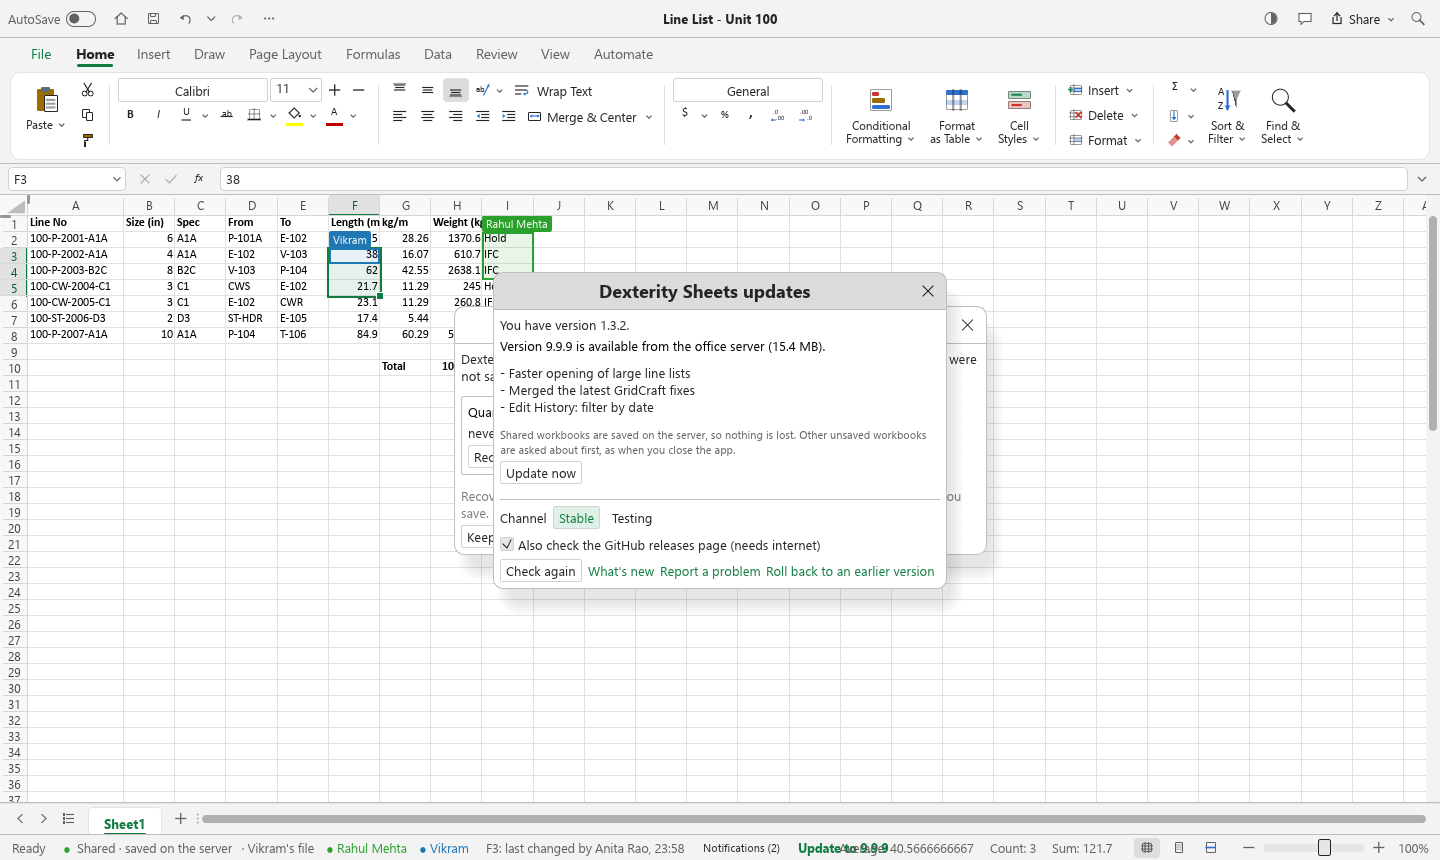
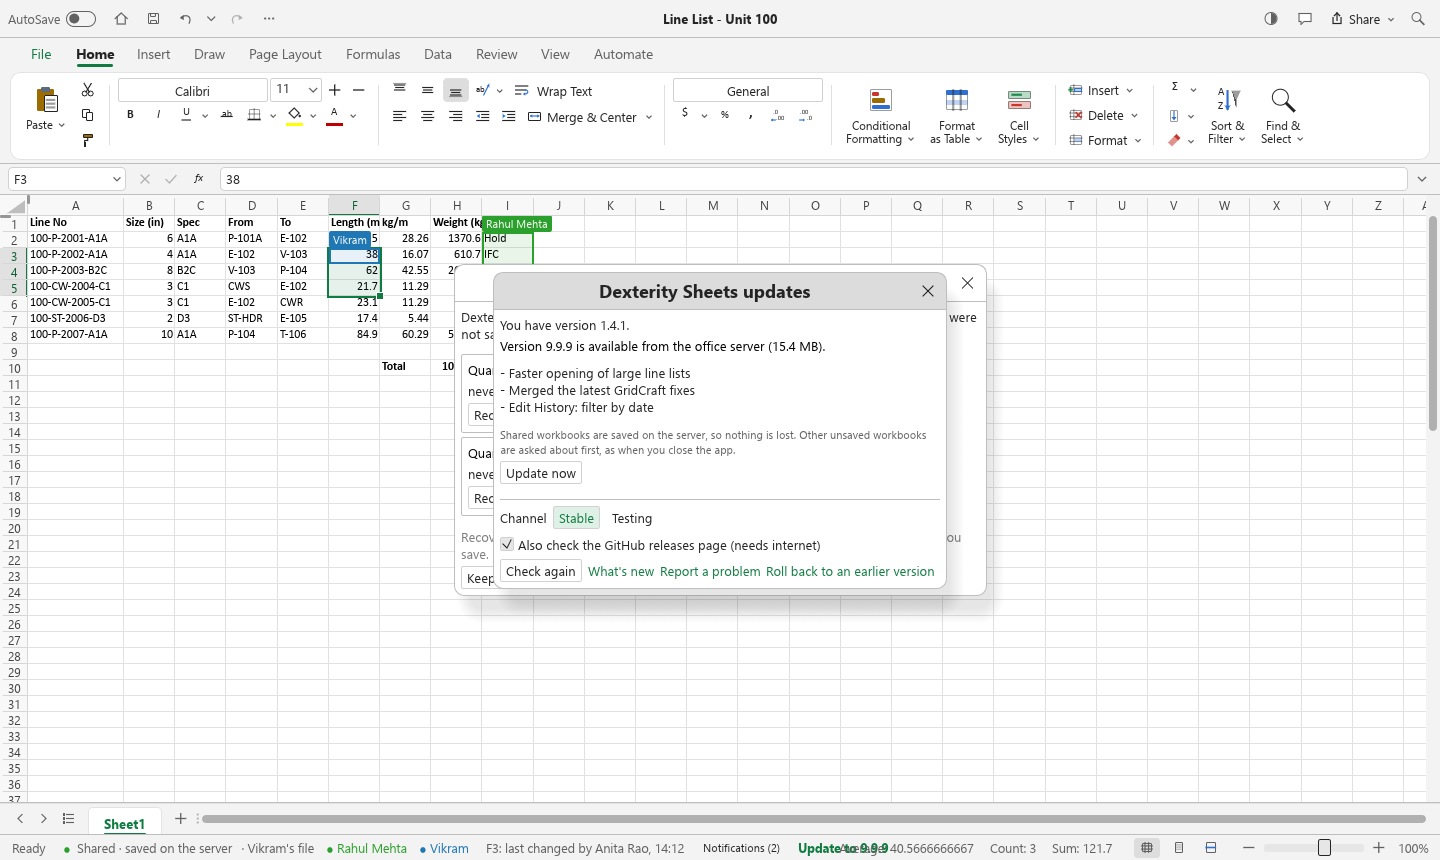
Docs: refresh README and screenshots for 1.4.1

Changed region(s): [[0.3125, 0.3023, 0.3438, 0.7256], [0.6562, 0.3023, 0.6875, 0.4233], [0.6562, 0.6349, 0.6875, 0.7256]]

diff --git a/README.md b/README.md
@@ -9,7 +9,7 @@
 </p>
 
 <p align="center">
-  <sub><!-- dex:release -->Version <b>1.4.0</b> · 1 November 2026 · based on GridCraft 0.14.2<!-- /dex:release --> · Windows 10 and 11 · no administrator rights needed · updates itself</sub>
+  <sub><!-- dex:release -->Version <b>1.4.1</b> · 1 November 2026 · based on GridCraft 0.14.2<!-- /dex:release --> · Windows 10 and 11 · no administrator rights needed · updates itself</sub>
 </p>
 
 <p align="center">
@@ -104,10 +104,7 @@
 ## What's new
 
 <!-- dex:whatsnew -->
-- Fixed: opening a `dexterity:` link in a running window through automation (`collab.openLink` over the control channel or MCP) could close that window when a second Dexterity Sheets was open under the same Windows account, losing anything unsaved in it. Only a copy just started with a link now hands it to the one already running.
-- **@mentions in comments.** Type **@** in a comment or a reply in the Comments pane and pick a colleague from the list (↑/↓ and Enter or Tab, or click; Esc closes it): their name goes in as **@Name**. When the comment reaches the office server, each person mentioned gets a Windows notification saying who mentioned them, in which spreadsheet and cell, and what the comment says; clicking it opens the spreadsheet at that cell with the Comments pane. Someone signed out is told at their next sign-in. If a person you mention can't open the spreadsheet, you are told so you can share it with them. Mentions only count in shared spreadsheets, and the list says so in one that isn't shared. Turn them off in Notifications › Settings ("I am mentioned in a comment").
-
-[Everything in 1.4.0](https://github.com/vikramdex-ops/dexterity-sheets/releases/tag/v1.4.0).
+[Everything in 1.4.1](https://github.com/vikramdex-ops/dexterity-sheets/releases/tag/v1.4.1)
 <!-- /dex:whatsnew -->
 
 Dexterity Sheets is built on the open-source [GridCraft](https://github.com/storytold/gridcraft)

diff --git a/packaging/dexterity/CHANGES.md b/packaging/dexterity/CHANGES.md
@@ -8,6 +8,10 @@ automatically and don't go here.
 
 ## Unreleased
 
+## 1.4.1 · 1 November 2026
+
+- Brings in the latest fixes and features of official GridCraft (listed in the release notes on GitHub). Nothing else changed in Dexterity Sheets.
+
 ## 1.4.0 · 1 November 2026
 
 - Fixed: opening a `dexterity:` link in a running window through automation (`collab.openLink` over the control channel or MCP) could close that window when a second Dexterity Sheets was open under the same Windows account, losing anything unsaved in it. Only a copy just started with a link now hands it to the one already running.
